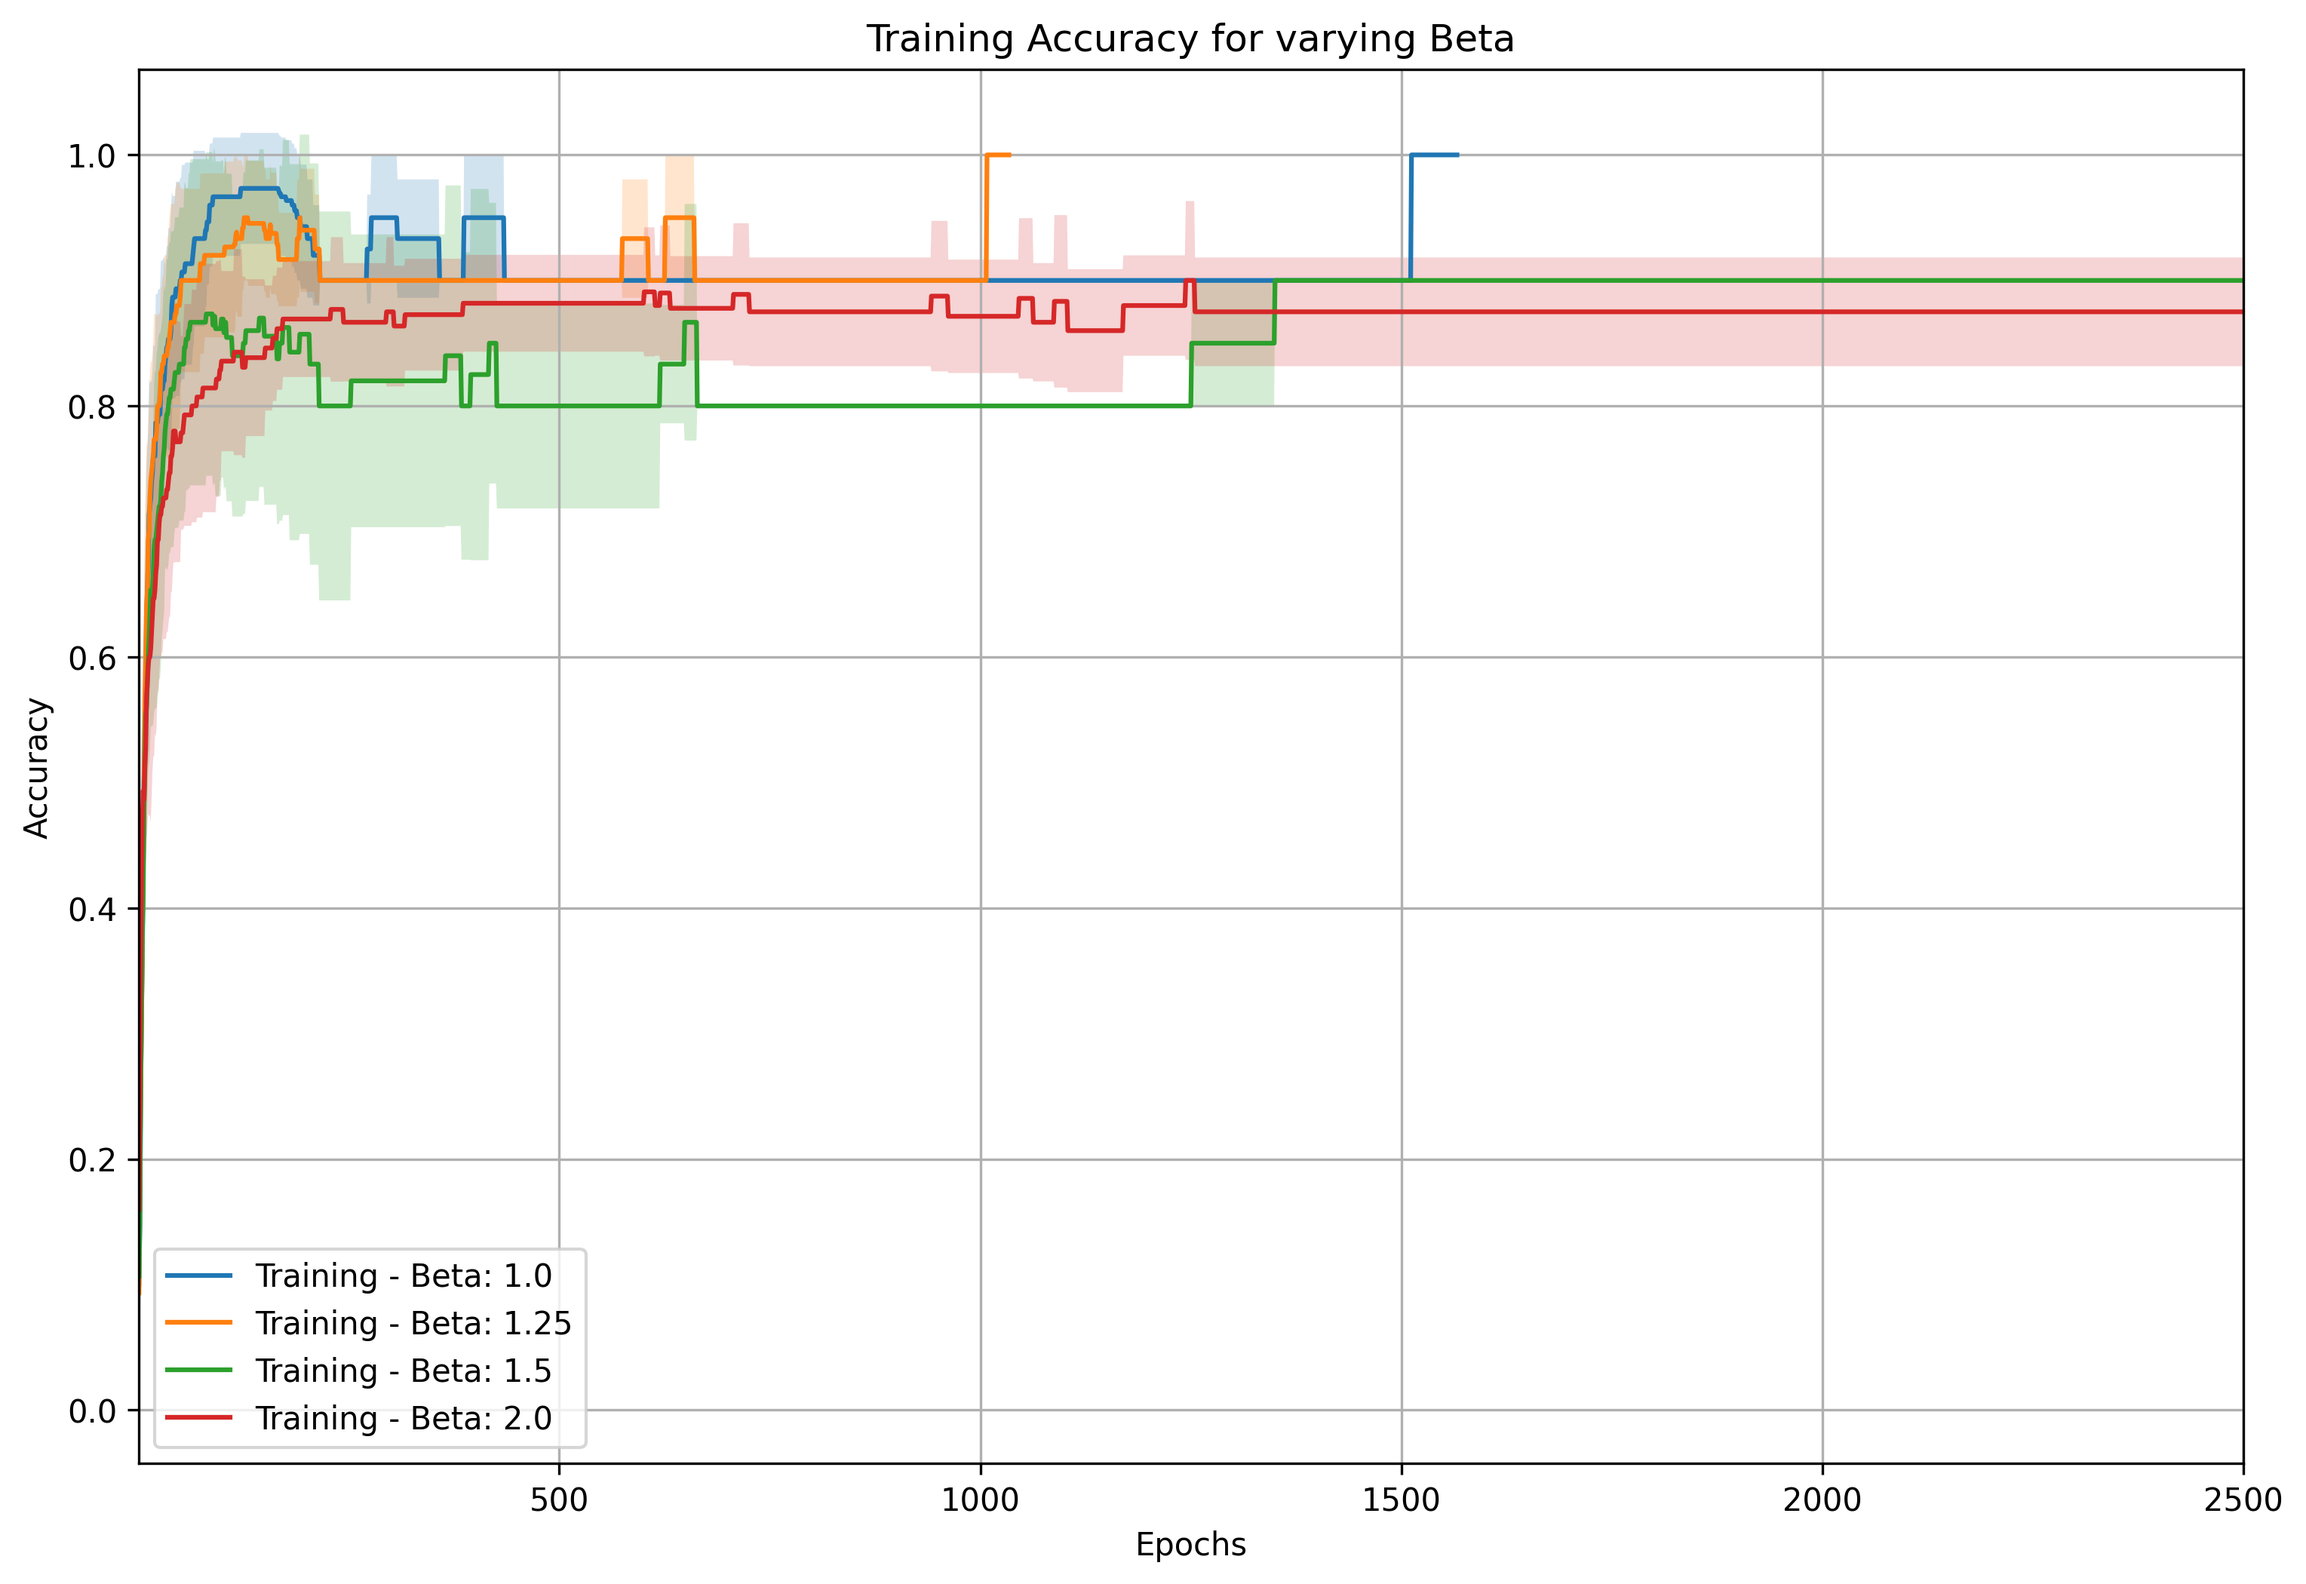
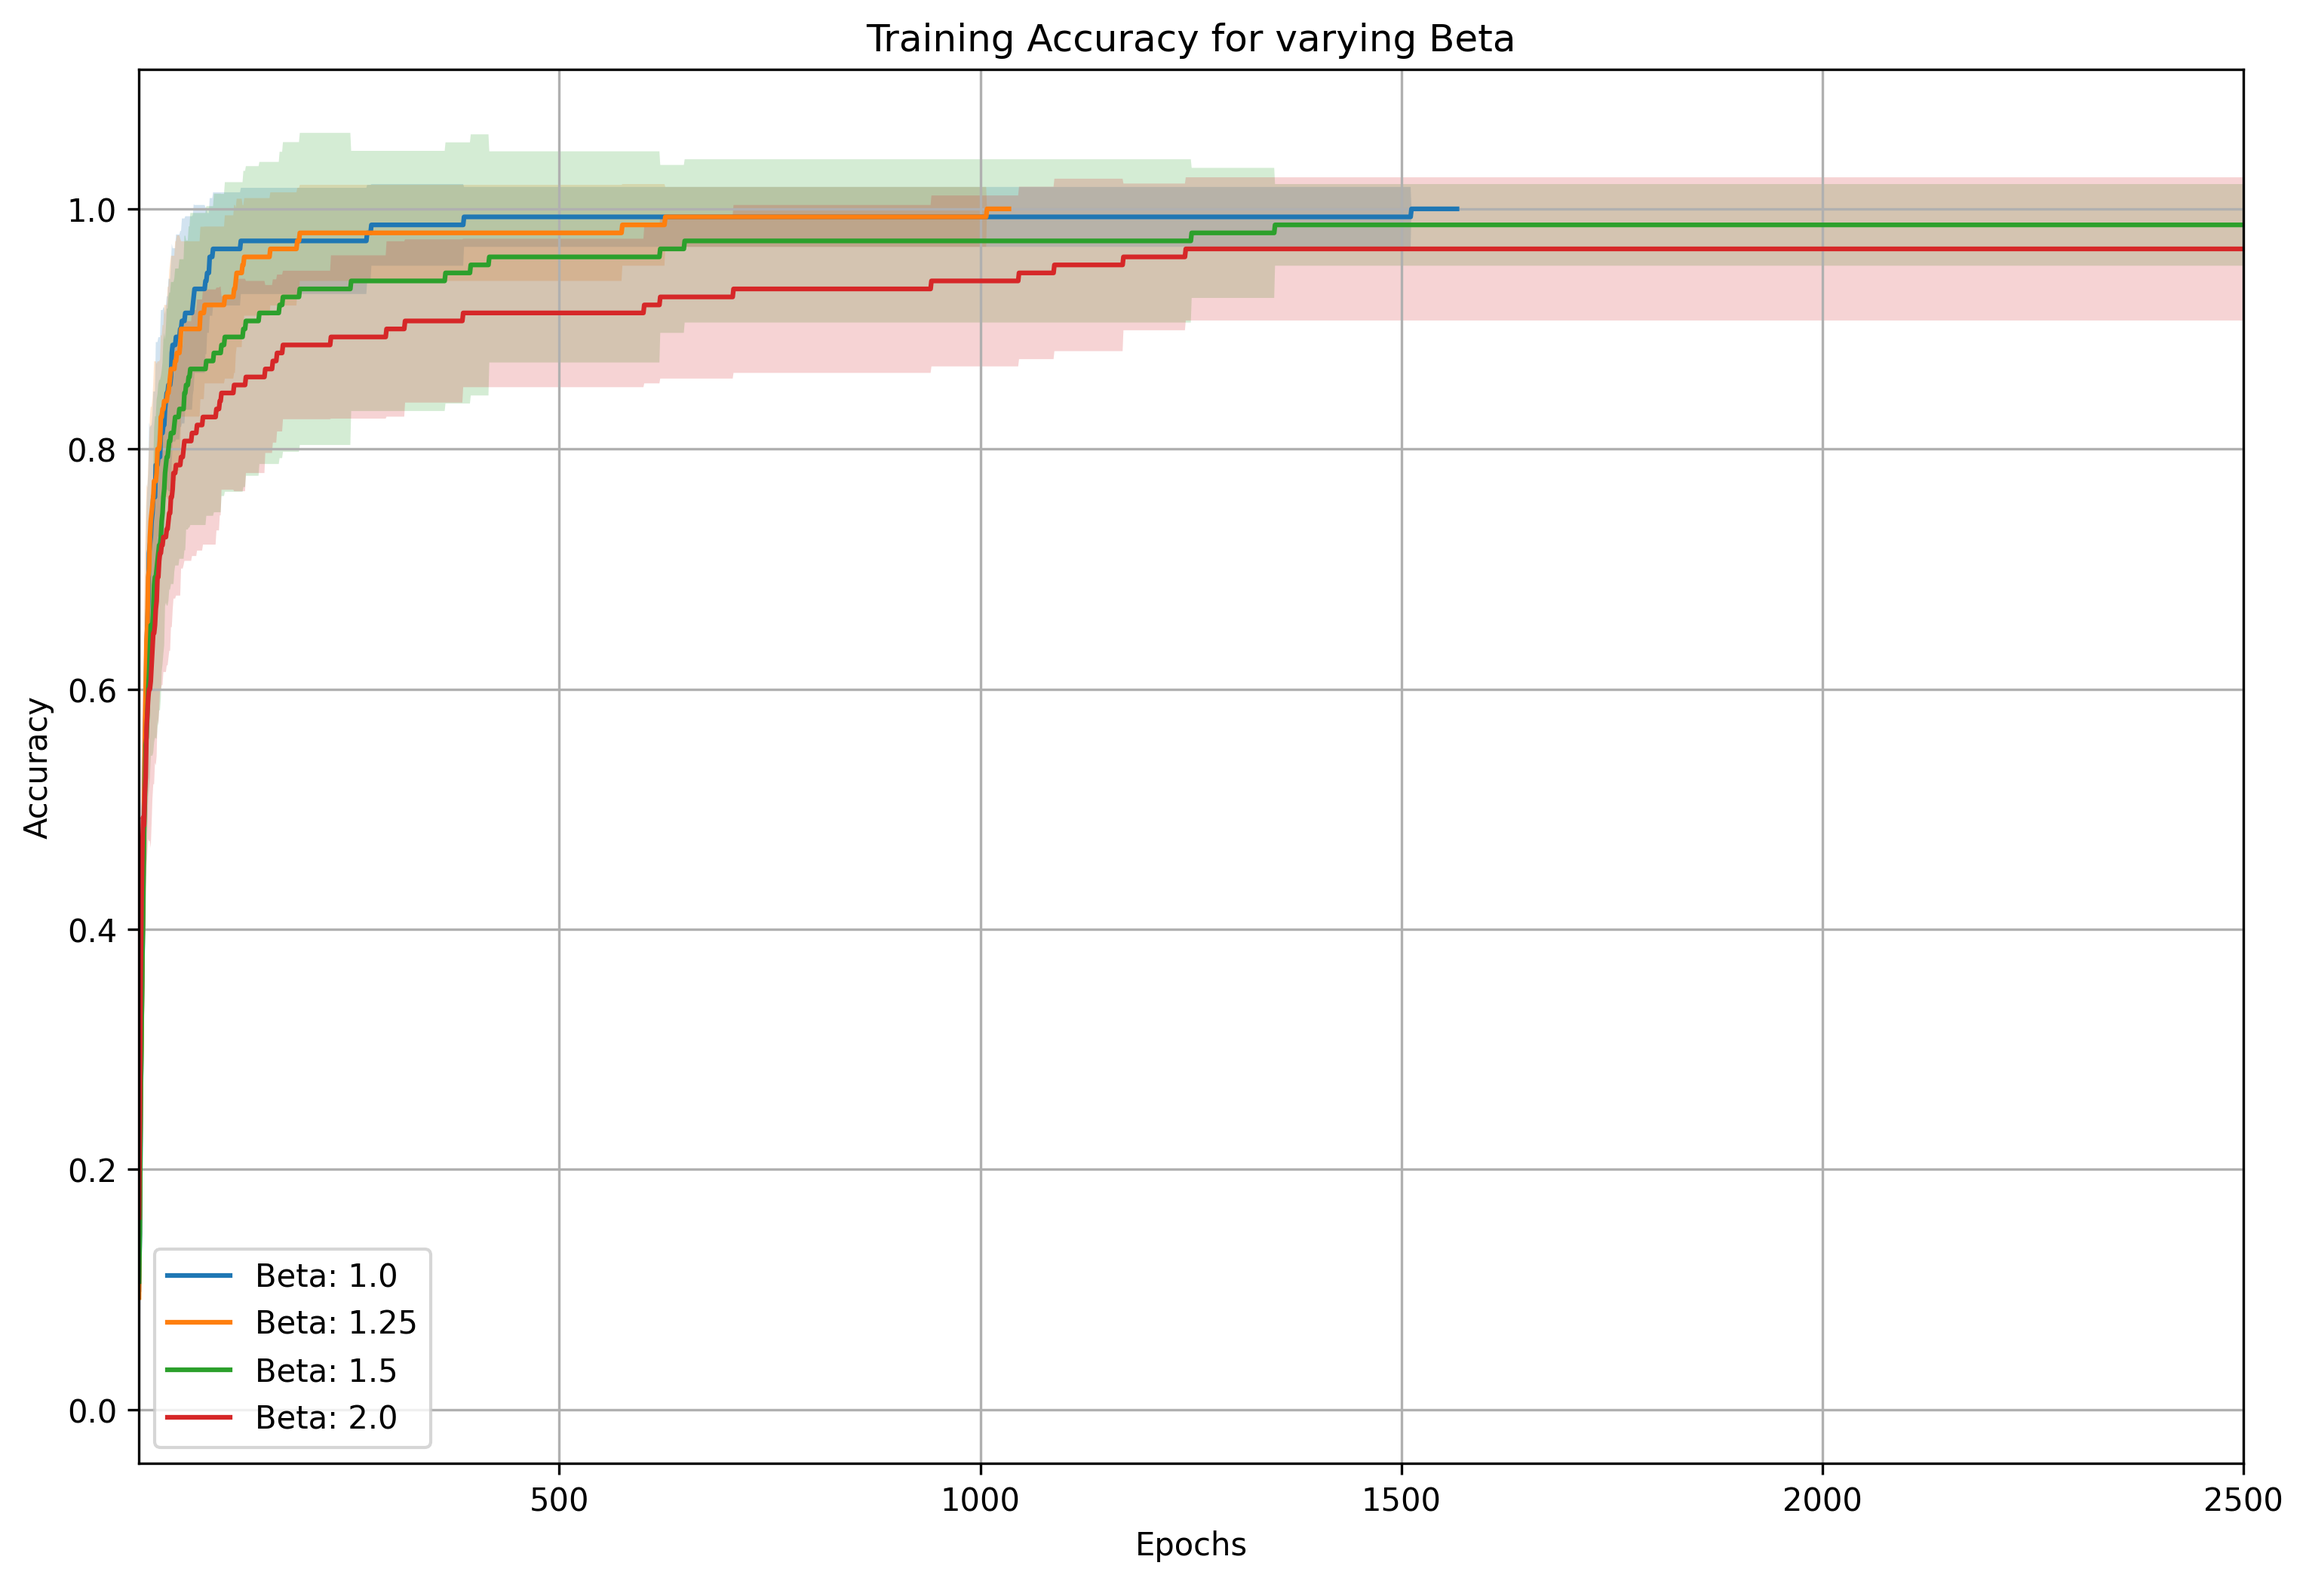
Update training accuracy graphs

diff --git a/exercise3/scripts/plotters/parameter_determined_training_testing_accuracy_vs_epoch_plotting.py b/exercise3/scripts/plotters/parameter_determined_training_testing_accuracy_vs_epoch_plotting.py
@@ -35,10 +35,10 @@ if __name__ == "__main__":
         all_training_accuracies = []
         all_testing_accuracies = []
 
-        # Collect all accuracies and pad shorter lists with NaN to handle lists of different lengths
+        # Collect all accuracies and pad shorter lists with 1.0 to handle lists of different lengths
         for train_acc, test_acc in zip(subset['Training Accuracy'], subset['Testing Accuracy']):
-            padded_train_acc = train_acc + [np.nan] * (max_epochs - len(train_acc))
-            padded_test_acc = test_acc + [np.nan] * (max_epochs - len(test_acc))
+            padded_train_acc = train_acc + [1.0] * (max_epochs - len(train_acc))
+            padded_test_acc = test_acc + [1.0] * (max_epochs - len(test_acc))
 
             all_training_accuracies.append(padded_train_acc)
             all_testing_accuracies.append(padded_test_acc)
@@ -46,12 +46,12 @@ if __name__ == "__main__":
         all_training_accuracies = np.array(all_training_accuracies)
         all_testing_accuracies = np.array(all_testing_accuracies)
 
-        # Compute mean and std for training and testing accuracy, ignoring NaN values
-        train_acc_means = np.nanmean(all_training_accuracies, axis=0)
-        train_acc_stds = np.nanstd(all_training_accuracies, axis=0)
+        # Compute mean and std for training and testing accuracy
+        train_acc_means = np.mean(all_training_accuracies, axis=0)
+        train_acc_stds = np.std(all_training_accuracies, axis=0)
 
-        test_acc_means = np.nanmean(all_testing_accuracies, axis=0)
-        test_acc_stds = np.nanstd(all_testing_accuracies, axis=0)
+        test_acc_means = np.mean(all_testing_accuracies, axis=0)
+        test_acc_stds = np.std(all_testing_accuracies, axis=0)
 
         # Generate epoch indices (1-based)
         epochs = np.arange(1, max_epochs + 1)
@@ -60,9 +60,9 @@ if __name__ == "__main__":
         plt.plot(epochs, train_acc_means, label=f'Training - {varying_hyperparam}: {val}')
         plt.fill_between(epochs, train_acc_means - train_acc_stds, train_acc_means + train_acc_stds, alpha=0.2)
 
-        # # Plot Testing Accuracy mean and std shadow for this hyperparameter value
-        # plt.plot(epochs, test_acc_means, label=f'Testing - {varying_hyperparam}: {val}')
-        # plt.fill_between(epochs, test_acc_means - test_acc_stds, test_acc_means + test_acc_stds, alpha=0.2)
+        # Plot Testing Accuracy mean and std shadow for this hyperparameter value
+        plt.plot(epochs, test_acc_means, label=f'Testing - {varying_hyperparam}: {val}')
+        plt.fill_between(epochs, test_acc_means - test_acc_stds, test_acc_means + test_acc_stds, alpha=0.2)
 
     # Limit X-axis to 2500 epochs
     plt.xlim([1, 2500])
@@ -70,12 +70,12 @@ if __name__ == "__main__":
     # Add labels, title, and legend
     plt.xlabel('Epochs')
     plt.ylabel('Accuracy')
-    plt.title(f'Training Accuracy for varying {varying_hyperparam}') # (f'Training and Testing Accuracy for varying {varying_hyperparam}')
+    plt.title(f'Training and Testing Accuracy for varying {varying_hyperparam}')
     plt.legend()
     plt.grid(True)
 
     # Save the plot
     plt.savefig(
-        f"digits_themselves_{varying_hyperparam.lower().replace(" ", "_")}_determined_training_accuracy_vs_epoch_plot.png",
+        f"digits_themselves_{varying_hyperparam.lower().replace(" ", "_")}_determined_training_testing_accuracy_vs_epoch_plot.png",
         dpi=300, bbox_inches='tight')
     plt.close()
